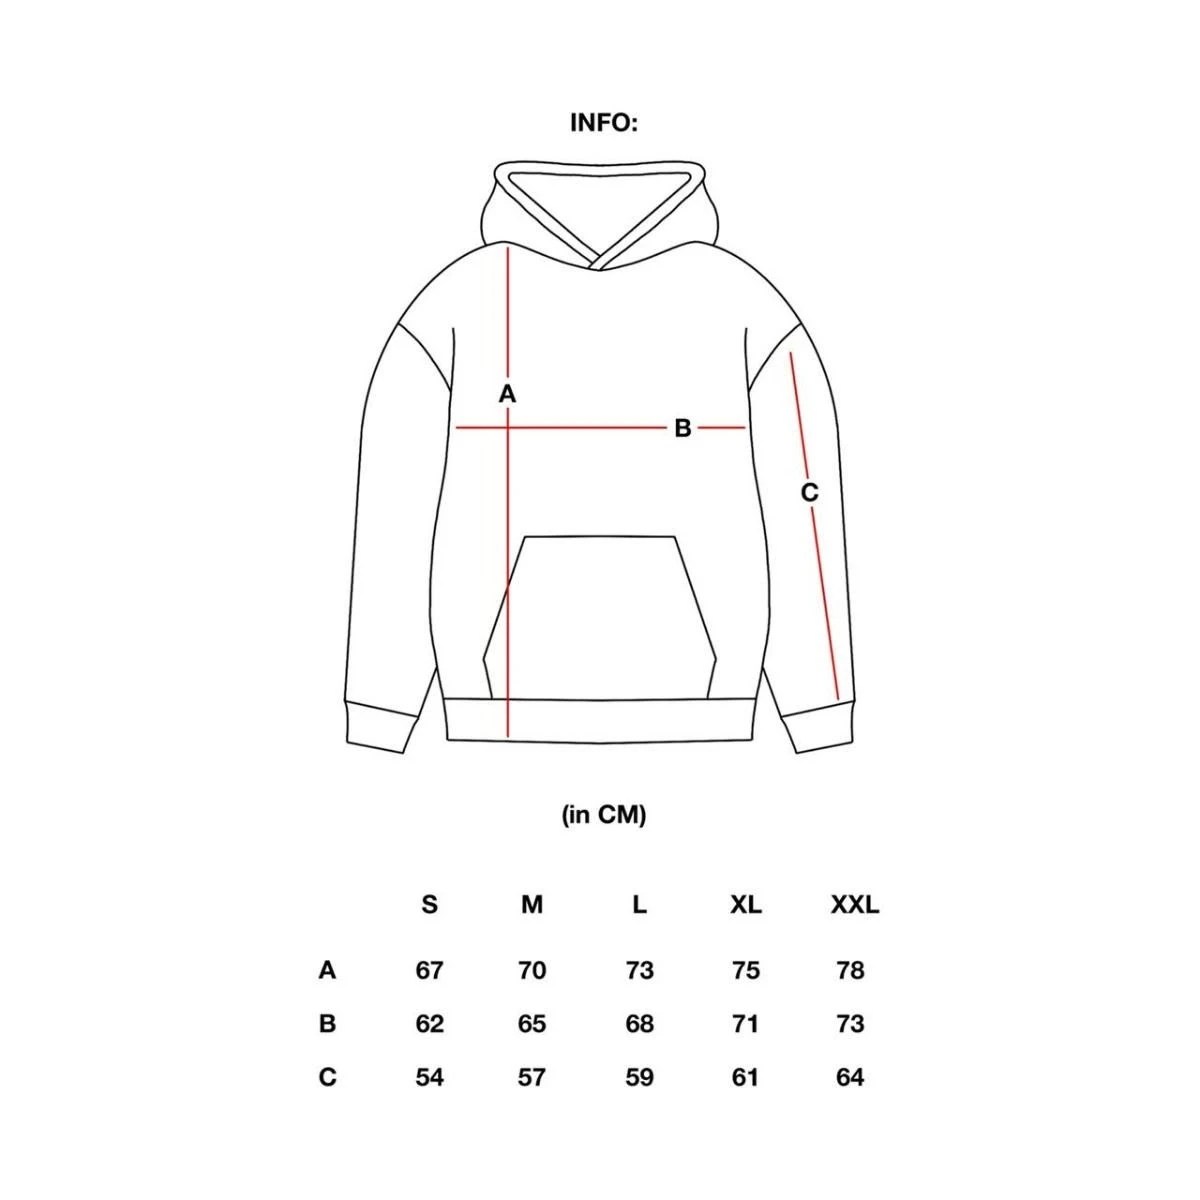
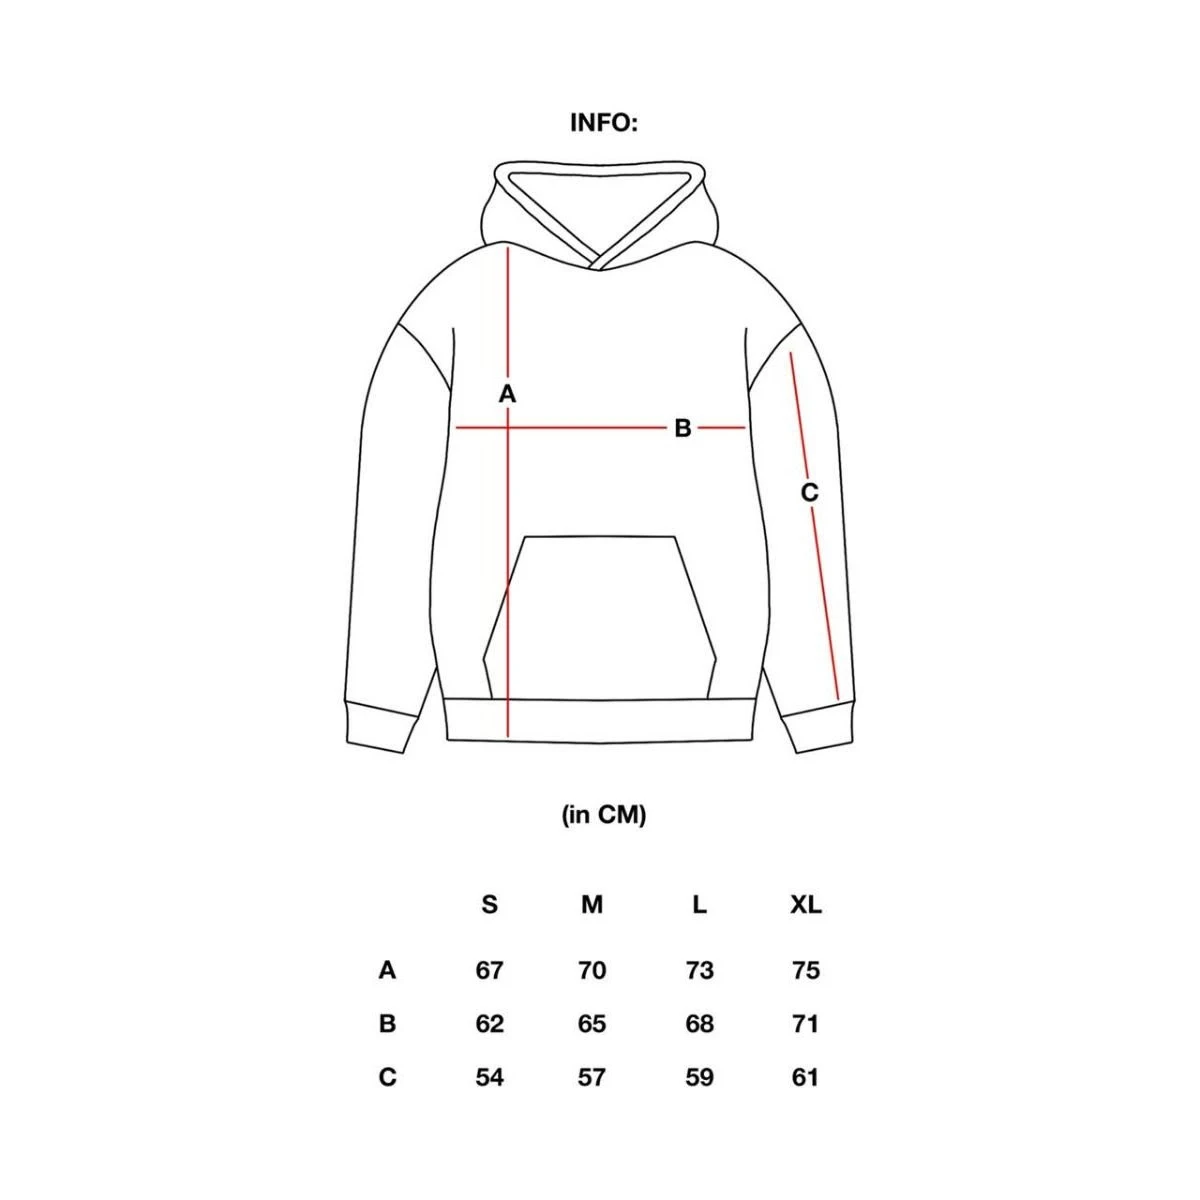
Hoodie size chart: S to XL (XXL column removed)

diff --git a/src/app/(store)/product/[slug]/page.tsx b/src/app/(store)/product/[slug]/page.tsx
@@ -121,7 +121,7 @@ export default async function ProductPage({ params }: Props) {
   // Size chart per category, decided by the product name first, then its categories (a product can sit in extra categories).
   // The admin-uploaded chart is the baggy jeans one (waist 26-40); hoodies/zip hoodies and tees have their own.
   const chartFor = (t: string) =>
-    /hood/i.test(t) ? '/images/size-charts/hoodies.webp'
+    /hood/i.test(t) ? '/images/size-charts/hoodies.webp?v=2'
     // jeans: the admin-uploaded chart cropped to the sizes sold, 26-38 (owner's request)
     : /jean|denim/i.test(t) ? '/images/size-charts/jeans.webp'
     // shirts and jerseys use the tee chart for now (owner's choice until they have their own measurements)
